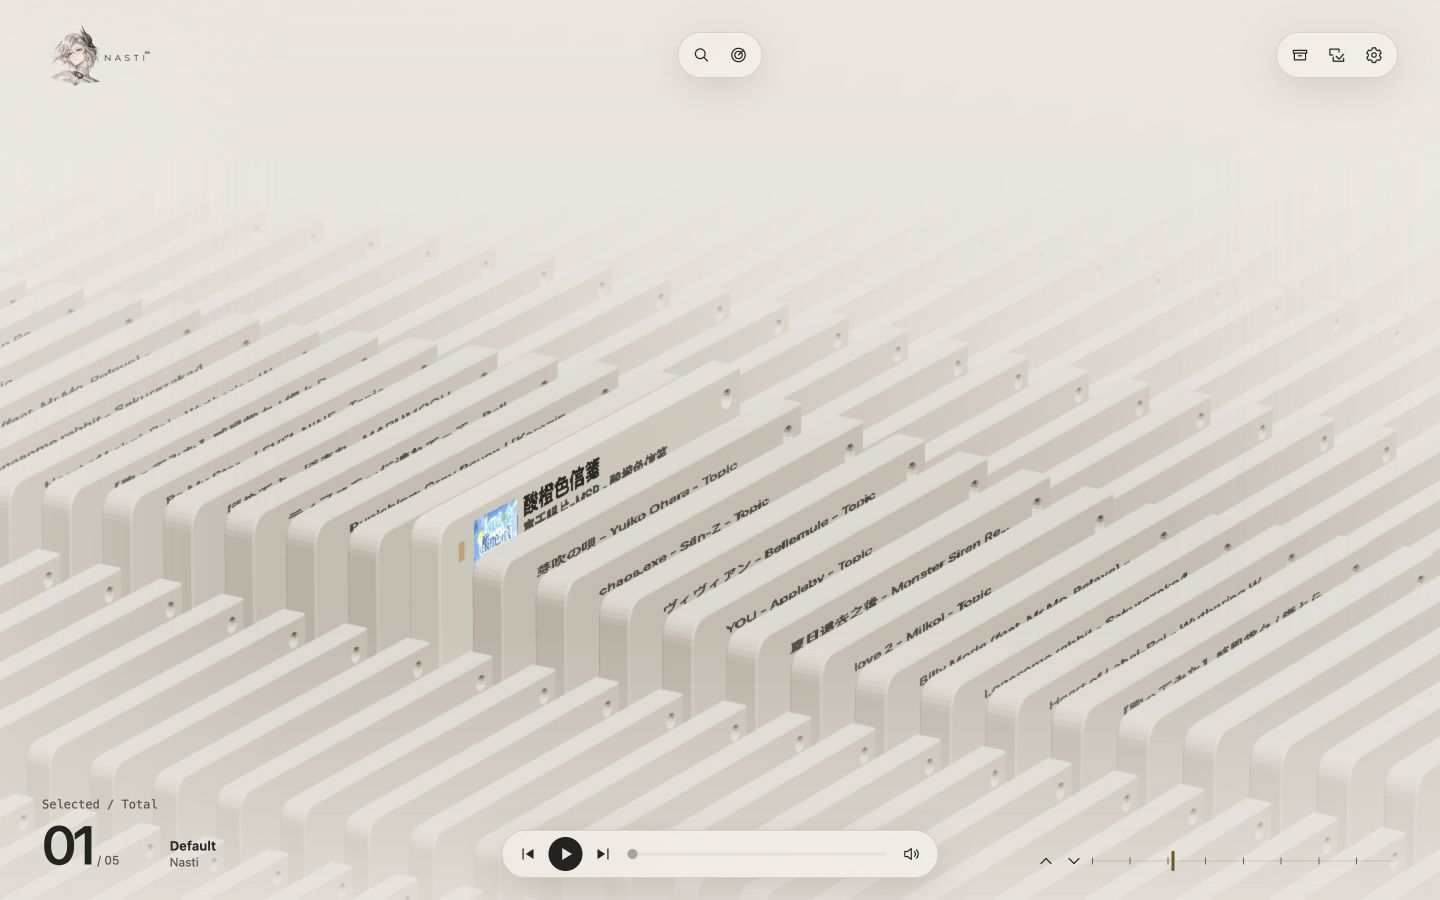
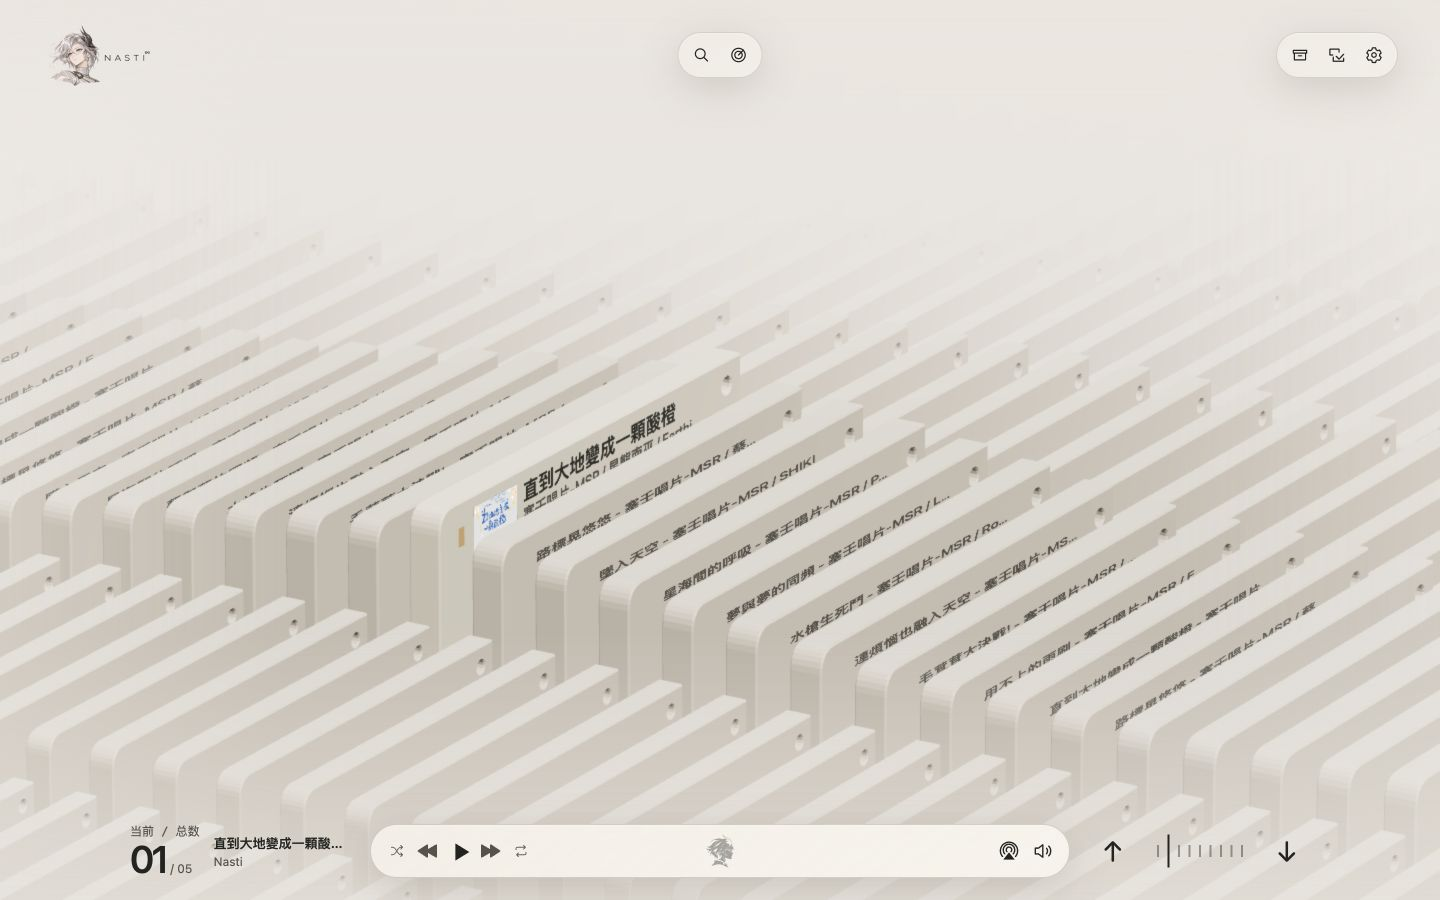
docs: refresh the bilingual Nasti overview

diff --git a/README.md b/README.md
@@ -1,11 +1,11 @@
 <p align="center">
   <picture>
     <source media="(prefers-color-scheme: dark)" srcset="docs/media/brand/nasti-character-logo-dark.png">
-    <img src="docs/media/brand/nasti-character-logo-light.png" width="590" alt="Nasti’s illustrated engineer portrait and double-ring NASTI wordmark">
+    <img src="docs/media/brand/nasti-character-logo-light.png" width="800" alt="Nasti’s illustrated engineer portrait and double-ring NASTI wordmark">
   </picture>
 </p>
 
-<h1 align="center">Nasti</h1>
+<h1 align="center">Nasti · 娜斯提</h1>
 
 <p align="center">
   <strong>Rhine Lab Acoustic Terminal</strong><br>
@@ -13,8 +13,8 @@
 </p>
 
 <p align="center">
-  A desktop music player inspired by Nasti from <em>Arknights</em>.<br>
-  <span lang="zh-CN">以《明日方舟》娜斯提为灵感的桌面音乐播放器。</span>
+  A Music Player Inspired by Nasti from <em>Arknights</em>.<br>
+  <span lang="zh-CN">以《明日方舟》娜斯提为灵感的音乐播放器</span>
 </p>
 
 <p align="center">
@@ -33,7 +33,7 @@
 <p>
   <picture>
     <source media="(prefers-color-scheme: dark)" srcset="docs/media/readme/archive-dark.jpg">
-    <img src="docs/media/readme/archive-light.jpg" width="836" alt="Three-dimensional home archive with 酸橙色信箋 selected">
+    <img src="docs/media/readme/archive-light.jpg" width="836" alt="Three-dimensional home archive with 直到大地變成一顆酸橙 selected">
   </picture>
 </p>
 
@@ -43,21 +43,23 @@
 </p>
 
 <p>
-  The home preview uses the imported playlist’s track metadata with <em lang="zh-CN">酸橙色信箋</em> selected.<br>
-  <span lang="zh-CN">首页预览采用实际导入的歌单曲目信息，选中《酸橙色信笺》。</span><br>
-  <a href="https://monster-siren.hypergryph.com/music/880385">Monster Siren Records · Cover art / 塞壬唱片 · 封面来源</a>
+  The home preview shows the <em lang="zh-CN">直到大地變成一顆酸橙 (Original Soundtrack)</em> in its original order, with the title track selected.<br>
+  <span lang="zh-CN">首页按《直到大地变成一颗酸橙》原声专辑的曲序展示歌单，选中同名曲。</span><br>
+  <a href="https://music.youtube.com/playlist?list=OLAK5uy_muPAf3cDjEGtAf8Dxo370mJzvnzbocDjk">Soundtrack playlist / 原声歌单</a>
+  ·
+  <a href="https://music.youtube.com/watch?v=NscanMhMPgE">Title track / 同名曲</a>
 </p>
 
 <p>
   <picture>
     <source media="(prefers-color-scheme: dark)" srcset="docs/media/readme/playback-and-playlist-dark.jpg">
-    <img src="docs/media/readme/playback-and-playlist-light.jpg" width="836" alt="Playback detail showing the official cover of 酸橙色信箋 and its highlighted entry in the playlist">
+    <img src="docs/media/readme/playback-and-playlist-light.jpg" width="836" alt="Playback detail showing the original soundtrack cover and its highlighted second track, 直到大地變成一顆酸橙">
   </picture>
 </p>
 
 <p>
-  The playback detail shows the official cover and highlights <em lang="zh-CN">酸橙色信箋</em>, the fifth track in the original playlist.<br>
-  <span lang="zh-CN">播放详情展示官方封面，并在原歌单曲序中高亮第 5 首《酸橙色信笺》。</span>
+  The playback detail shows the official soundtrack cover and highlights the title track, second in the original playlist.<br>
+  <span lang="zh-CN">播放详情展示原声专辑官方封面，并高亮原歌单第 2 首同名曲《直到大地变成一颗酸橙》。</span>
 </p>
 
 <p>
@@ -85,18 +87,9 @@
 
 <p>
   <strong>Featured track and cover art / 展示曲目与封面</strong><br>
-  The screenshots feature <em lang="zh-CN">酸橙色信笺</em> and its official cover art from Monster Siren Records (MSR).<br>
-  <span lang="zh-CN">截图展示的曲目为塞壬唱片（MSR）发行的《酸橙色信笺》，封面采用官方发行图。</span><br>
-  <a href="https://monster-siren.hypergryph.com/music/880385">Official release / 官方发行页</a>
-  ·
-  <a href="https://music.youtube.com/watch?v=91UkWokuc_o">YouTube Music / 原曲</a>
-</p>
-
-<p>
-  <strong>README layout / README 排版</strong><br>
-  The character-led introduction and interface previews take inspiration from the Clash Nyanpasu README.<br>
-  <span lang="zh-CN">以角色开场、随后展示界面的排版参考了 Clash Nyanpasu 的 README。</span><br>
-  <a href="https://github.com/libnyanpasu/clash-nyanpasu#readme">Clash Nyanpasu README</a>
+  The screenshots feature the title track of <em lang="zh-CN">直到大地變成一顆酸橙 (Original Soundtrack)</em> and its official album cover from Monster Siren Records (MSR).<br>
+  <span lang="zh-CN">截图展示塞壬唱片（MSR）发行的《直到大地变成一颗酸橙》原声专辑同名曲，封面采用该专辑官方发行图。</span><br>
+  <a href="https://monster-siren.hypergryph.com/music/697674">Official release / 官方发行页</a>
 </p>
 
 <h2>License / 许可</h2>
